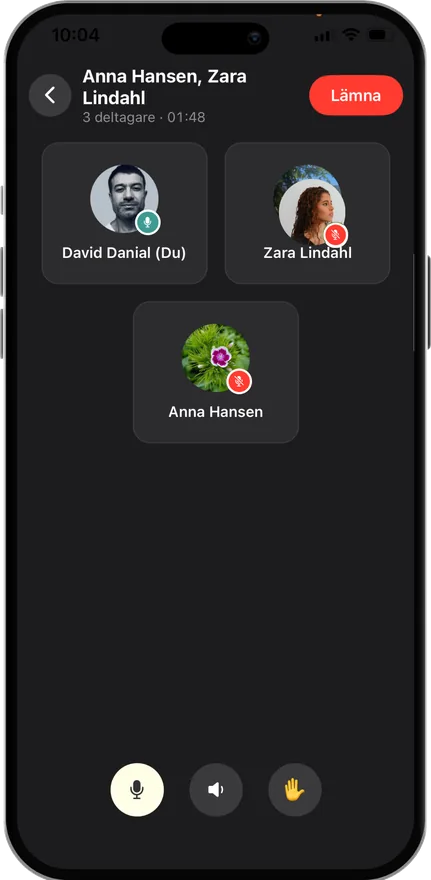
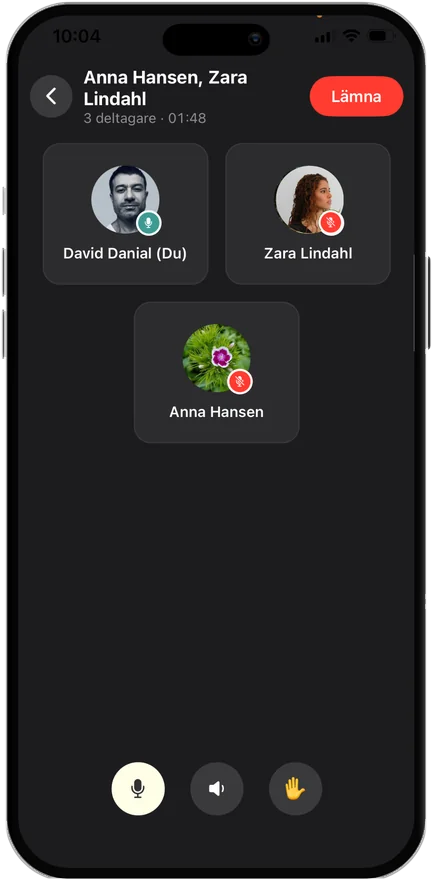
Funktionsbandet: ny skärmbild för Samtal
Friställd från den nya bilden på samma sätt som de andra (433 × 880).

diff --git a/index.html b/index.html
@@ -123,7 +123,7 @@
         </div>
         <div class="feature-card">
           <div class="feature-shot">
-            <img src="Bilder/funktioner/samtal.webp" alt="Ett pågående gruppsamtal med tre deltagare" width="431" height="880" loading="lazy" decoding="async">
+            <img src="Bilder/funktioner/samtal.webp" alt="Ett pågående gruppsamtal med tre deltagare" width="433" height="880" loading="lazy" decoding="async">
           </div>
           <h3>Samtal</h3>
           <p>Ring en kollega eller starta ett möte med hela teamet – direkt i appen.</p>
